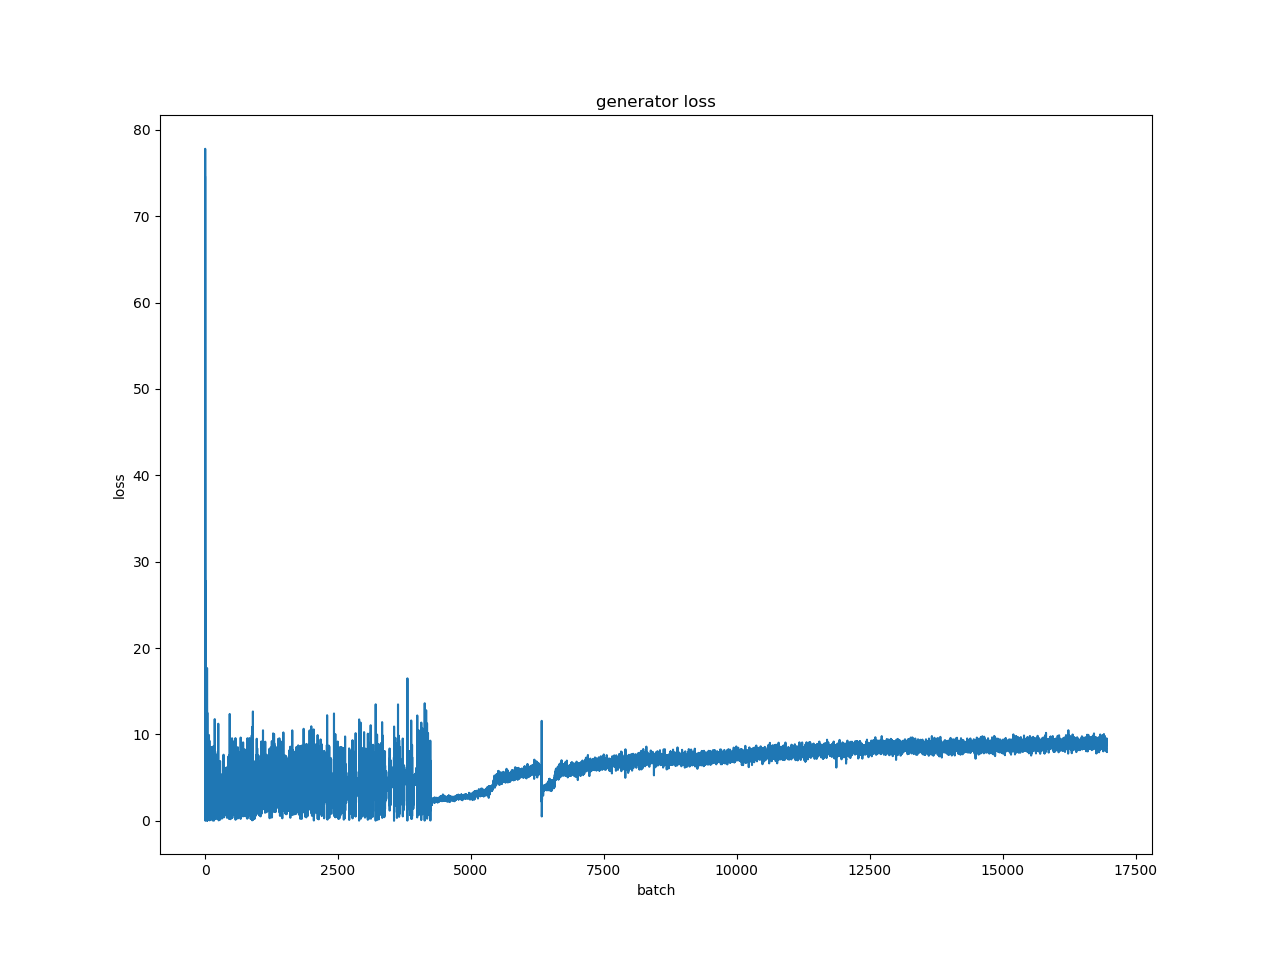
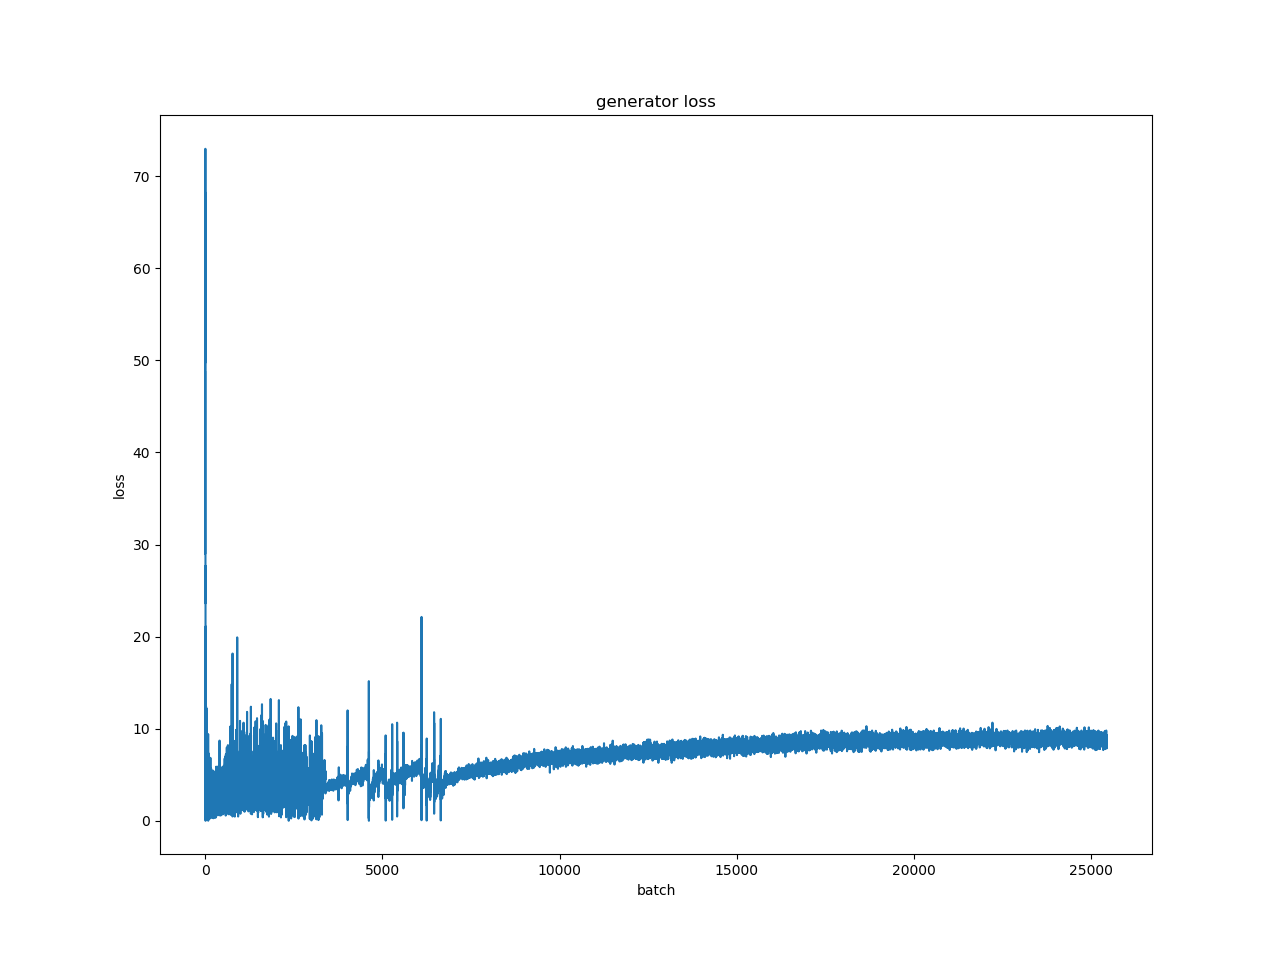
fifteenth commit
update training results

diff --git a/train.py b/train.py
@@ -10,12 +10,12 @@ device = torch.device('cuda:0' if torch.cuda.is_available() else 'cpu')
 # training parameters
 batch_size = 128
 learning_rate_g = 0.001
-learning_rate_d = 0.001
-rate_decay_g = 0.1
-rate_decay_d = 0.1
-rate_step_g = 5
-rate_step_d = 5
-epoch = 20
+learning_rate_d = 0.0005
+rate_decay_g = 0.2
+rate_decay_d = 0.2
+rate_step_g = 4
+rate_step_d = 4
+epoch = 30
 real_label = (1, 1)
 fake_label = (0, 0)
 
@@ -169,8 +169,8 @@ for e in range(epoch):
             loss_g.append(loss_fake2.detach())
 
         # print progress
-        print('epoch ' + str(e + 1) + ' of ' + str(epoch) + ' batch ' + str(i + 1) + ' of ' + str(batch_number))
-        print('score_right: ' + str(mean_score_right) + ' score_fake(before): ' + str(
+        print('epoch ' + str(e + 1) + ' of ' + str(epoch) + ' batch ' + str(i + 1) + ' of ' + str(
+            batch_number) + ' score_right: ' + str(mean_score_right) + ' score_fake(before): ' + str(
             mean_score_fake_before) + ' score_fake(after): ' + str(mean_score_fake_after) + ' g loss: ' + str(
             loss_g[-1].item()) + ' d loss: ' + str(loss_d[-1].item()))
 
@@ -213,7 +213,7 @@ for e in range(epoch):
         plt.subplot(4, 4, sample + 1)
         plot_heatmap(fixed_fake[sample], skeleton)
         plt.title(f'{1 / (1 + np.exp(-fixed_score[sample])):.3f}')
-    plt.savefig('fixed noise samples_' + str(e + 1) + '.png')
+    plt.savefig('fixed noise samples_' + f'{e + 1:02d}' + '.png')
     plt.close()
 
     # save traces of scores
